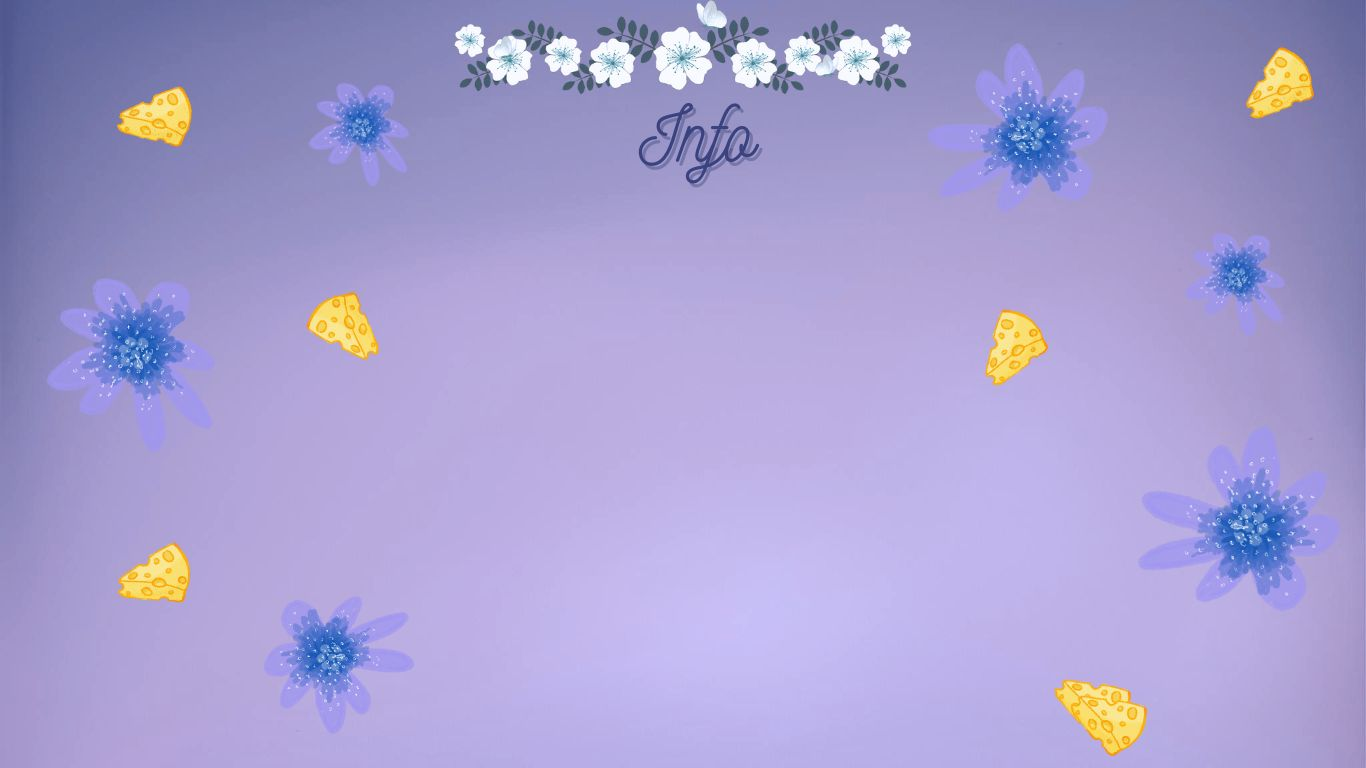
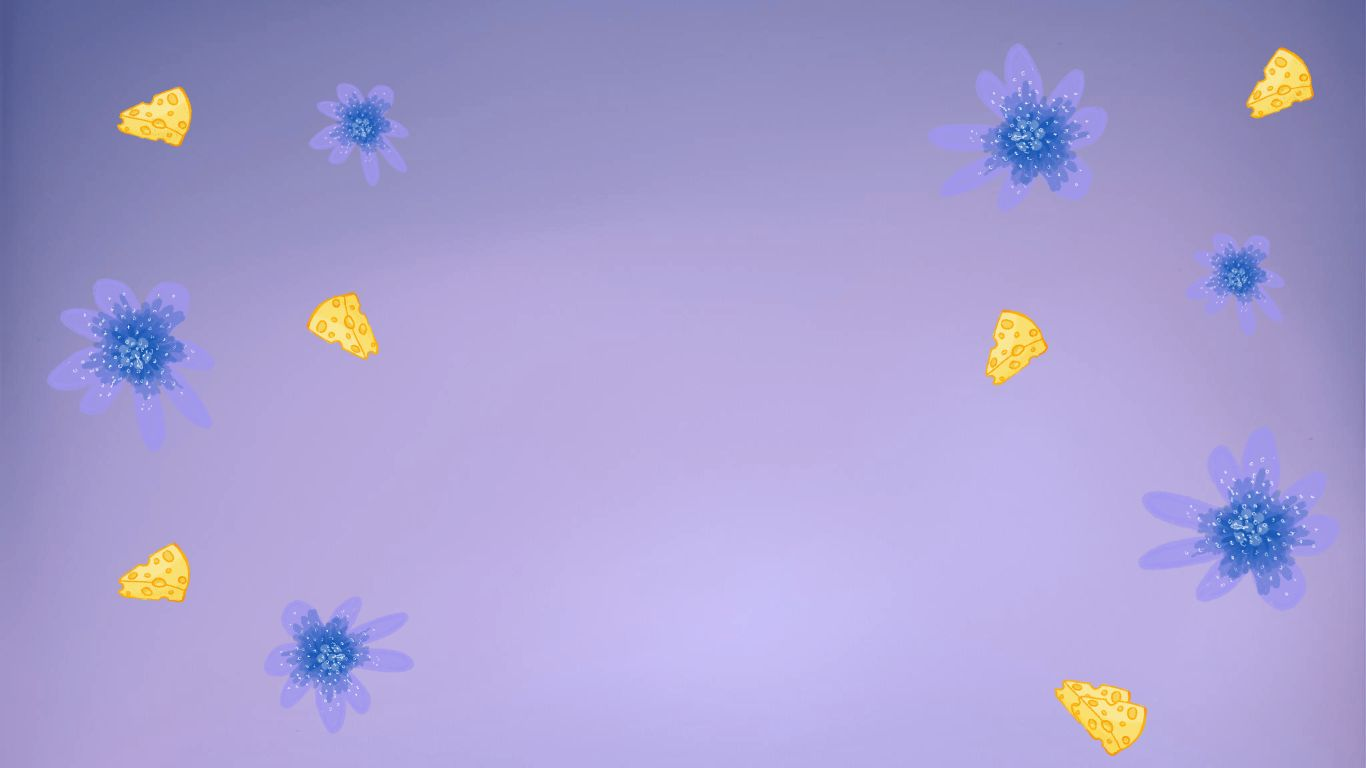
Renaming and formatting

Changed region(s): [[0.3075, 0.0, 0.6764, 0.25]]

diff --git a/style.css b/style.css
@@ -1,55 +1,49 @@
 body {
-    background-color: #c4b5eb;
-    /* background-image: url('../WeddingWebsite/Assets/BluePurpleBG.jpg'); */
-    /* background-size: 100%;
-    width: 100%;
-    height: 100%; */
+    background-color: #c7adde;
+    background-repeat: no-repeat;
+    /* cover stretches image vs contain image keeps ratio while showing all image*/
+    background-size: cover;
+    background-position: center;
+    max-width: 100%;
+    max-height: 100%;
+    overflow-x: hidden;
 }
-
-html {
-    width: 100%;
-    height: 100%;
-}
-
-.container {
-    position: relative;
-}
-
  .btn {
-    position: absolute;
-    top: 80%;
-    left: 70%;
+    position: relative;
+    top: 40%;
+    left: 30%;
     background-color: #C0C5EB;
     color: #4C4186;
-    font-size: 16px;
+    font-size: 1.5vw;
     font-family:'Times New Roman', Times, serif;
-    padding: 12px 24px;
+    padding: 1vp 1vp;
     border: none;
   }
 
 #info {
-    position: absolute;
-    top: 25%;
-    left: 55%;
-    font-size: 25px;
+    position: relative;
+    top: 40%;
+    left: 40%;
+    font-size: 2vw;
+    size-adjust: auto;
     color: #3A4280;
     font-family:'Times New Roman', Times, serif;
 }
 
 #email {
-    position: absolute;
-    top: 29%;
-    left: 55%;
-    font-size: 20px;
+    position: relative;
+    top: 15vw;
+    left: 40vw;
+    font-size: 2vw;
     color: #1f2553;
     font-family:'Times New Roman', Times, serif;
 }
 
 #para {
-    position: absolute;
-    top: 20%;
-    left: 55%;
-    font-size: 20px;
+    position: relative;
+    top: 27vh;
+    left: 35vw;
+    font-size: 1.7vw;
     color: #1f2553;
 }
 
@@ -61,3 +55,36 @@ color: #C0C5EB;
 img {
     width: 100%;
 }
+
+/* Add a black background color to the top navigation */
+.topnav {
+    position: fixed;
+    top: 0;
+    left: 0;
+    background-color: #5e5484;
+    width: 100%;
+    height: auto;
+  }
+  
+  /* Style the links inside the navigation bar */
+  .topnav a {
+    float: left;
+    color: #f2f2f2;
+    text-align: center;
+    padding: 14px 16px;
+    text-decoration: none;
+    font-size: 17px;
+  }
+  
+  /* Change the color of links on hover */
+  .topnav a:hover {
+    background-color: #ddd;
+    color: black;
+  }
+  
+  /* Add a color to the active/current link */
+  .topnav a.active {
+    background-color: #6580bb;
+    color: white;
+  }
+  

diff --git a/RSVP.html b/RSVP.html
@@ -4,28 +4,29 @@
     <title>Anna's and Hannah's Wedding Invite</title>
 </head>
 <link
-    rel="stylesheet"za
+    rel="stylesheet"
     href="style.css">
-<body>
-    <div class="container">
-        <img src="Assets/OurStory.jpg" alt="event info">
-        <p id="para">Email or text us c:</p>
-        <form id="email"
-            action="mailto:bobbobbynick@gmail.com" method="post" enctype="text/plain">
-            Name:<br>
-            <input type="text" name="Name"><br>
-            <br>
-            Method of Attending:<br>
-            <input type="text" name="Method"><br>
-            <br>
-            Comments:<br>
-            <input type="text" name="Comments" size="50"><br><br>
-            <input type="submit" value="Send">
-            <input type="reset" value="Reset">
-            <br>
-            <a href="RSVP.html"><button class="btn">Finished?</button></a>
-        </div>
-        </form>
-    </div>
+<body style="background-image:url(Assets/rsvp.jpg);">
+    <div class="topnav">
+        <a class="active" href="index.html">Home</a>
+        <a href="Info.html">Info</a>
+        <a href="RSVP.html">RSVP</a>
+      </div>
+    <p id="para">Email or text us c:</p>
+    <form id="email"
+        action="mailto:bobbobbynick@gmail.com" method="post" enctype="text/plain">
+        Name:<br>
+        <input type="text" name="Name"><br>
+        <br>
+        Method of Attending:<br>
+        <input type="text" name="Method"><br>
+        <br>
+        Comments:<br>
+        <input type="text" name="Comments"><br><br>
+        <input type="submit" value="Send" style="font-size:1.3vw;">
+        <input type="reset" value="Reset" style="font-size:1.3vw;">
+        <br>
+        <a href="RSVP.html"><button class="btn">Finished?</button></a>
+    </form>
 </body>
 </html>

diff --git a/info.html b/info.html
@@ -1,0 +1,32 @@
+<DOCTYPE! HTML>
+    <html>
+    <head>
+        <title>Anna's and Hannah's Wedding Invite</title>
+    </head>
+    <link
+        rel="stylesheet"
+        href="style.css">
+    <body style="background-image: url(Assets/OurStory.jpg);">
+        <div class="topnav">
+            <a class="active" href="index.html">Home</a>
+            <a href="Info.html">Info</a>
+            <a href="RSVP.html">RSVP</a>
+          </div>
+        <p id="info"> 
+            Location: Cloisters<br>
+            Date: June 28<br>
+            Start Time: 7:00 <br
+            >End Time: 8ish<br> 
+            Dress Code: Anything, but <br>
+             black, white, purple, or blue.
+            <br> Vibes: Pretty Chill. 
+        </p>
+        <a href="RSVP.html"><button class="btn">RSP</button></a>
+
+        <script>
+        function myFunction() {
+        document.getElementById("demo").innerHTML = "Hello World";
+        }
+</script>
+    </body>
+</html>

diff --git a/index.html b/index.html
@@ -6,20 +6,12 @@
     <link
         rel="stylesheet"
         href="style.css">
-    <body>
-        <img src="Assets/Home.jpg"
-        alt="invite page">
-        <div class="container">
-            <img src="Assets/OurStory.jpg" alt="event info">
-            <p id="info"> Location: Cloisters<br><br>Date: June 28<br><br>Start Time: 7:00 <br><br>End Time: 8ish <br><br> Dress Code: You can wear anything, but black, white, purple, or blue. <br><br> Vibes: Pretty Chill. </p>
-            <a href="RSVP.html"><button class="btn">RSP</button></a>
-        </div>
+    <body style="background-image: url(Assets/Home.jpg);">
+        <div class="topnav">
+            <a class="active" href="index.html">Home</a>
+            <a href="Info.html">Info</a>
+            <a href="RSVP.html">RSVP</a>
 
-<p id="demo"></p>
-<script>
-function myFunction() {
-  document.getElementById("demo").innerHTML = "Hello World";
-}
-</script>
+          </div>
     </body>
 </html>
